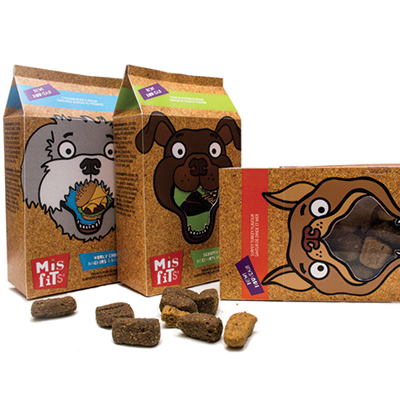
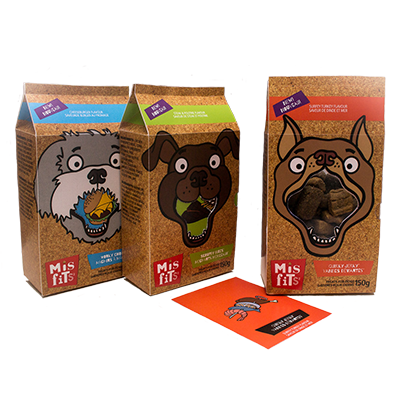
added work to portfolio

diff --git a/familiar-things.html b/familiar-things.html
@@ -28,21 +28,33 @@
         </div>
     </header>
     
-    
-    
     <div class="portfolio island">
-        <div class="portfolio-full">
-            <img class="familiar-things-full img-flex" src="images/familiar-things-full.png" alt="Familiar Things Portfolio Piece">
+        <div class="grid">
+            <div class="portfolio-full unit unit-xs-1 unit-s-1 unit-m-1-2 unit-l-1-2">
+                <img class="familiar-things-full img-flex" src="images/familiar-things-full.png" alt="Familiar Things Portfolio Piece">
+            </div>
+            <div class="portfolio-full-info island-2 unit unit-xs-1 unit-s-1 unit-m-1-2 unit-l-1-2">
+                <h1>Familiar Things</h1>
+                <p> Originally designed as a glyph set, this series could also work nicely as an icon or sticker set.  </p>
+            </div>
         </div>
-        <div class="portfolio-full-info island-2">
-            <h1>Familiar Things</h1>
-            <p> Originally designed as a glyph set, this series could also work nicely as an icon or sticker set.  </p>
+        <!--<div class="grid island-2">
+            <div class="misfitsmore unit unit-xs-1 unit-s-1 unit-m-1-2 unit-l-1-2">
+                <div class="squarifier misfits-front"></div>
+            </div>
+            <div class="misfitsmore unit unit-xs-1 unit-s-1 unit-m-1-2 unit-l-1-2">
+                <div class="squarifier misfits-back"></div>
+            </div>
         </div>
+        <div class="misfits-process island-2">
+            <img class="misfits-sketches img-flex" src="images/misfits-sketches.png" alt="Misfits Dog Treats Package Re-Design Portfolio Piece">
+            <img class="misfits-treats img-flex" src="images/misfits-flavours.png" alt="Misfits Dog Treats Package Re-Design Portfolio Piece">
+        </div>-->
     </div>
         
+    <hr class="divider">
     
-    
-       <div class="footer">
+    <div class="footer">
         <h3 class="letstalk text-center">Let's talk!</h3>
         <h6 class="text-center email"><a href="mailto:holla@annatrojanowska.ca?Subject:Yo!" class="email">holla@annatrojanowska.ca</a></h6>
         <div class="grid socialcontainer">

diff --git a/misfits.html b/misfits.html
@@ -31,18 +31,32 @@
     
     
     <div class="portfolio island">
-        <div class="portfolio-full">
-            <img class="misfits-full img-flex" src="images/misfits.png" alt="Misfits Dog Treats Package Re-Design Portfolio Piece">
+        <div class="grid">
+            <div class="portfolio-full unit unit-xs-1 unit-s-1 unit-m-1-2 unit-l-1-2">
+                <img class="misfits-full img-flex" src="images/misftis-full.png" alt="Misfits Dog Treats Package Re-Design Portfolio Piece">
+            </div>
+            <div class="portfolio-full-info island-2 unit unit-xs-1 unit-s-1 unit-m-1-2 unit-l-1-2">
+                <h1>Misfits Dog Treats Package Re-Design</h1>
+                <p> Environmentally friendly package re-design for a popular brand of dog treats.</p>
+            </div>
         </div>
-        <div class="portfolio-full-info island-2">
-            <h1>Misfits Dog Treats Package Re-Design</h1>
-            <p> Environmentally friendly package re-design for a popular brand of dog treats.</p>
+        <div class="grid island-2">
+            <div class="misfitsmore unit unit-xs-1 unit-s-1 unit-m-1-2 unit-l-1-2">
+                <div class="squarifier misfits-front"></div>
+            </div>
+            <div class="misfitsmore unit unit-xs-1 unit-s-1 unit-m-1-2 unit-l-1-2">
+                <div class="squarifier misfits-back"></div>
+            </div>
+        </div>
+        <div class="misfits-process island-2">
+            <img class="misfits-sketches img-flex" src="images/misfits-sketches.png" alt="Misfits Dog Treats Package Re-Design Portfolio Piece">
+            <img class="misfits-treats img-flex" src="images/misfits-flavours.png" alt="Misfits Dog Treats Package Re-Design Portfolio Piece">
         </div>
     </div>
         
+    <hr class="divider">
     
-    
-       <div class="footer">
+    <div class="footer">
         <h3 class="letstalk text-center">Let's talk!</h3>
         <h6 class="text-center email"><a href="mailto:holla@annatrojanowska.ca?Subject:Yo!" class="email">holla@annatrojanowska.ca</a></h6>
         <div class="grid socialcontainer">

diff --git a/index.html b/index.html
@@ -30,10 +30,11 @@
     <div class="gutter">
         <div class="banner">
             <div>
-                <img class="flowers img-flex" src="images/flowers.png" alt="flowers">
+                <img class="flowers img-flex" src="images/flowers.png" alt="Flowers">
             </div>
             <div class="island info">
-                <h2 class="name">Anna Trojanowska</h1>
+                <img class="wordmark img-flex" src="images/wordmark.png" alt="Wordmark">
+                <!--<h2 class="name">Anna Trojanowska</h1>-->
                 <h4 class="skills">Graphic Design &bull; Illustration &bull; Motion</h2>
                 <h6 class="location">Based in Ottawa, ON</h3>
             </div>
@@ -44,6 +45,9 @@
     
     <div class="portfolio island">
         <div class="grid">
+            <div class="portfolio-item unit unit-xs-1 unit-s-1 unit-m-1-1 unit-l-1-1">
+                <a href="hearbeats.html" class="island fade"><div class="rectanglifier heartbeats"></div></a>
+            </div>
             <div class="portfolio-item unit unit-xs-1 unit-s-1 unit-m-1-2 unit-l-1-4">
                 <a href="arrow.html" class="island fade"><div class="squarifier arrow"></div></a>
             </div>
@@ -57,7 +61,7 @@
                 <a href="portrait.html" class="island fade"><div class="squarifier portrait"></div> </a>
             </div>
             <div class="portfolio-item unit unit-xs-1 unit-s-1 unit-m-1-2 unit-l-1-4">
-                <a href="" class="island fade"><div class="squarifier placeholder"></div> </a>
+                <a href="placeholder.html" class="island fade"><div class="squarifier placeholder"></div> </a>
             </div>
             <div class="portfolio-item unit unit-xs-1 unit-s-1 unit-m-1-2 unit-l-1-4">
                 <a href="skull-flower.html" class="island fade"><div class="squarifier skull-flower"></div> </a>

diff --git a/css/main.css b/css/main.css
@@ -136,6 +136,7 @@ nav a {
     
 .skills {
     text-transform: uppercase;
+    font-weight: 400;
 
 }
 
@@ -155,6 +156,15 @@ nav a {
 
 .squarifier {
     padding-top: 100%;
+}
+
+.rectanglifier {
+    padding-top: 50%;
+}
+
+.heartbeats {
+    background-image: url(../images/heartbeats.gif);
+    background-size: cover; 
 }
 
 .familiar-things {
@@ -213,6 +223,20 @@ nav a {
 .portfolio-piece {
       
 }
+
+/*********************************** PORTFOLIO PIECE: MISFITS ***********************************/
+
+.misfits-front {
+    background-image: url(../images/misfits-front.png);
+    background-size: cover;   
+}
+
+.misfits-back {
+    background-image: url(../images/misfits-back.png);
+    background-size: cover;  
+}
+
+
 
 /*********************************** ABOUT & CONTACT ***********************************/
 
@@ -321,9 +345,8 @@ li {
         width: 100%;
     }
     
-    .name {
-        margin-bottom: 1em;
-        margin-top: -0.5em;
+    .wordmark {
+        margin-top: -1em;
        
     }
     
@@ -365,6 +388,9 @@ li {
         text-align: right;
     }
     
+    .wordmark {
+        
+    }
 
     
     
@@ -398,8 +424,9 @@ li {
         object-position: center;
     }
     
-    .name {
-        margin-top: -1.5em;
+    .wordmark {
+        margin-top: -3.5em;
+        width: 24em;
     }
     
     .location {

diff --git a/about&contact.html b/about&contact.html
@@ -37,8 +37,7 @@
                 <h4>Skills</h4>
                 <ul>
                     <li>Illustration</li>
-                    <li>Animation</li>
-                    <li>Tactile Motion</li>
+                    <li>Motion Design</li>
                     <li>Branding</li>
                     <li>UI/UX</li>
                     <li>Typesetting</li>
@@ -82,13 +81,13 @@
         </div>
     </div>
         
+    <hr class="divider">
     
-    
-      <div class="footer">
+    <div class="footer">
         <h3 class="letstalk text-center">Let's talk!</h3>
         <h6 class="text-center email"><a href="mailto:holla@annatrojanowska.ca?Subject:Yo!" class="email">holla@annatrojanowska.ca</a></h6>
         <div class="grid socialcontainer">
-             <div class="social unit unit-xs-1-5 unit-s-1-5 unit-m-1-5 unit-l-1-5">
+            <div class="social unit unit-xs-1-5 unit-s-1-5 unit-m-1-5 unit-l-1-5">
                 <a href="https://www.facebook.com/anna.trojanowska.5" target="_blank"><img class="fade" src="images/fb.png" alt="Facebook Link"></a>
             </div>
             <div class="social unit unit-xs-1-5 unit-s-1-5 unit-m-1-5 unit-l-1-5">

diff --git a/portrait.html b/portrait.html
@@ -40,9 +40,9 @@
         </div>
     </div>
         
+    <hr class="divider">
     
-    
-       <div class="footer">
+    <div class="footer">
         <h3 class="letstalk text-center">Let's talk!</h3>
         <h6 class="text-center email"><a href="mailto:holla@annatrojanowska.ca?Subject:Yo!" class="email">holla@annatrojanowska.ca</a></h6>
         <div class="grid socialcontainer">
